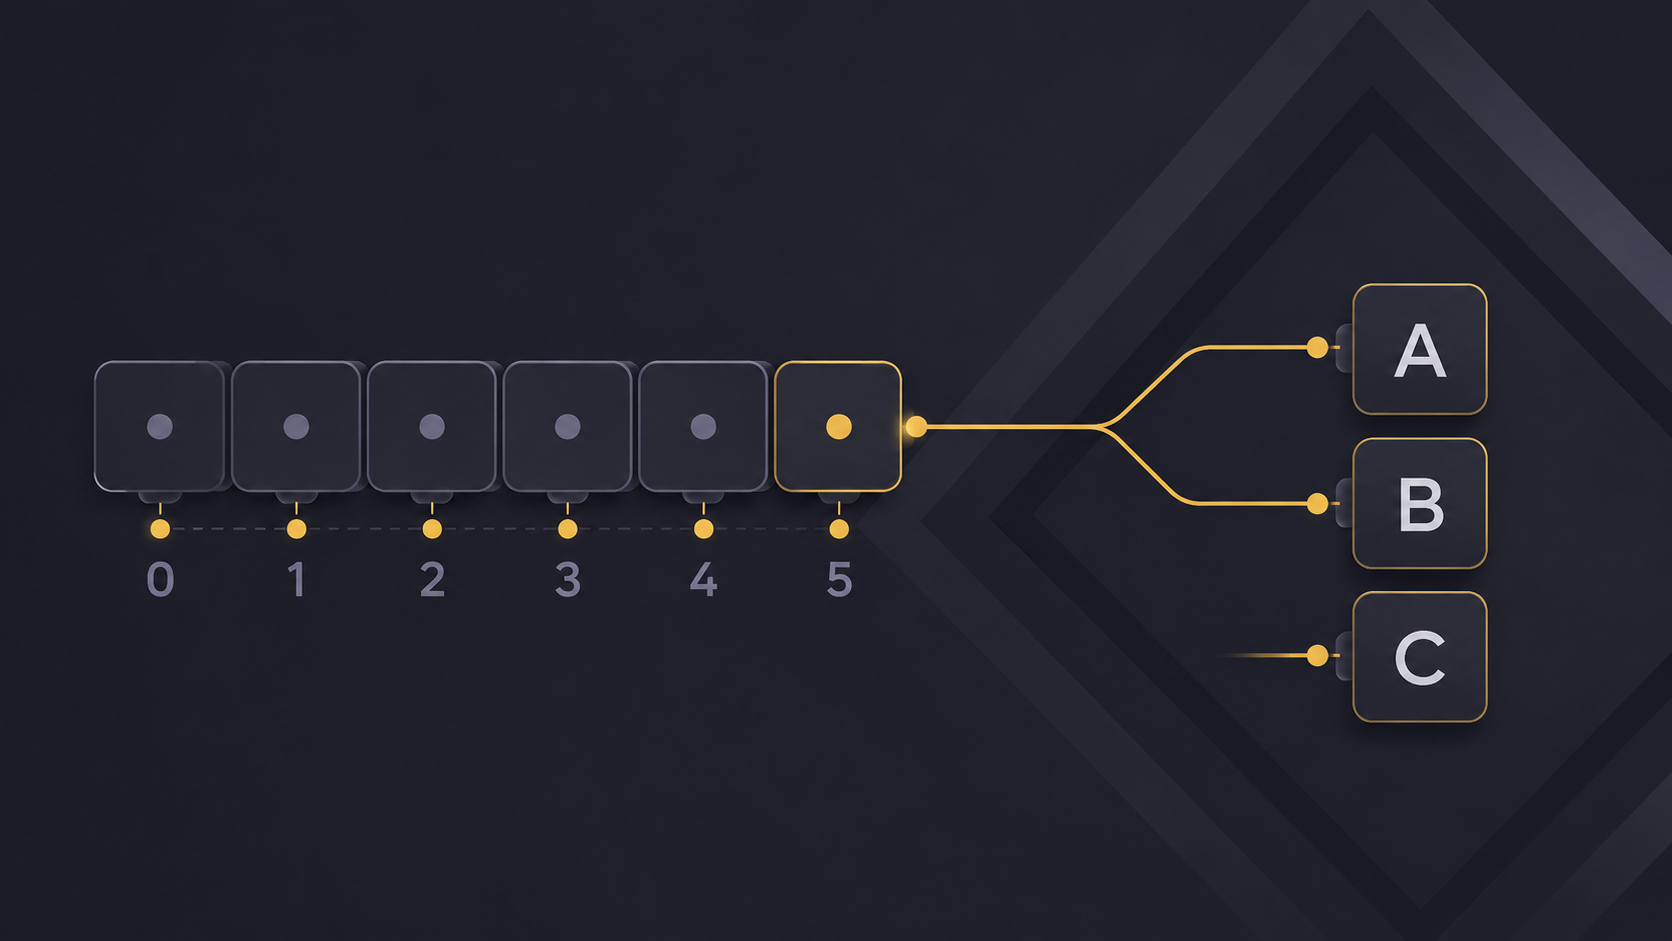
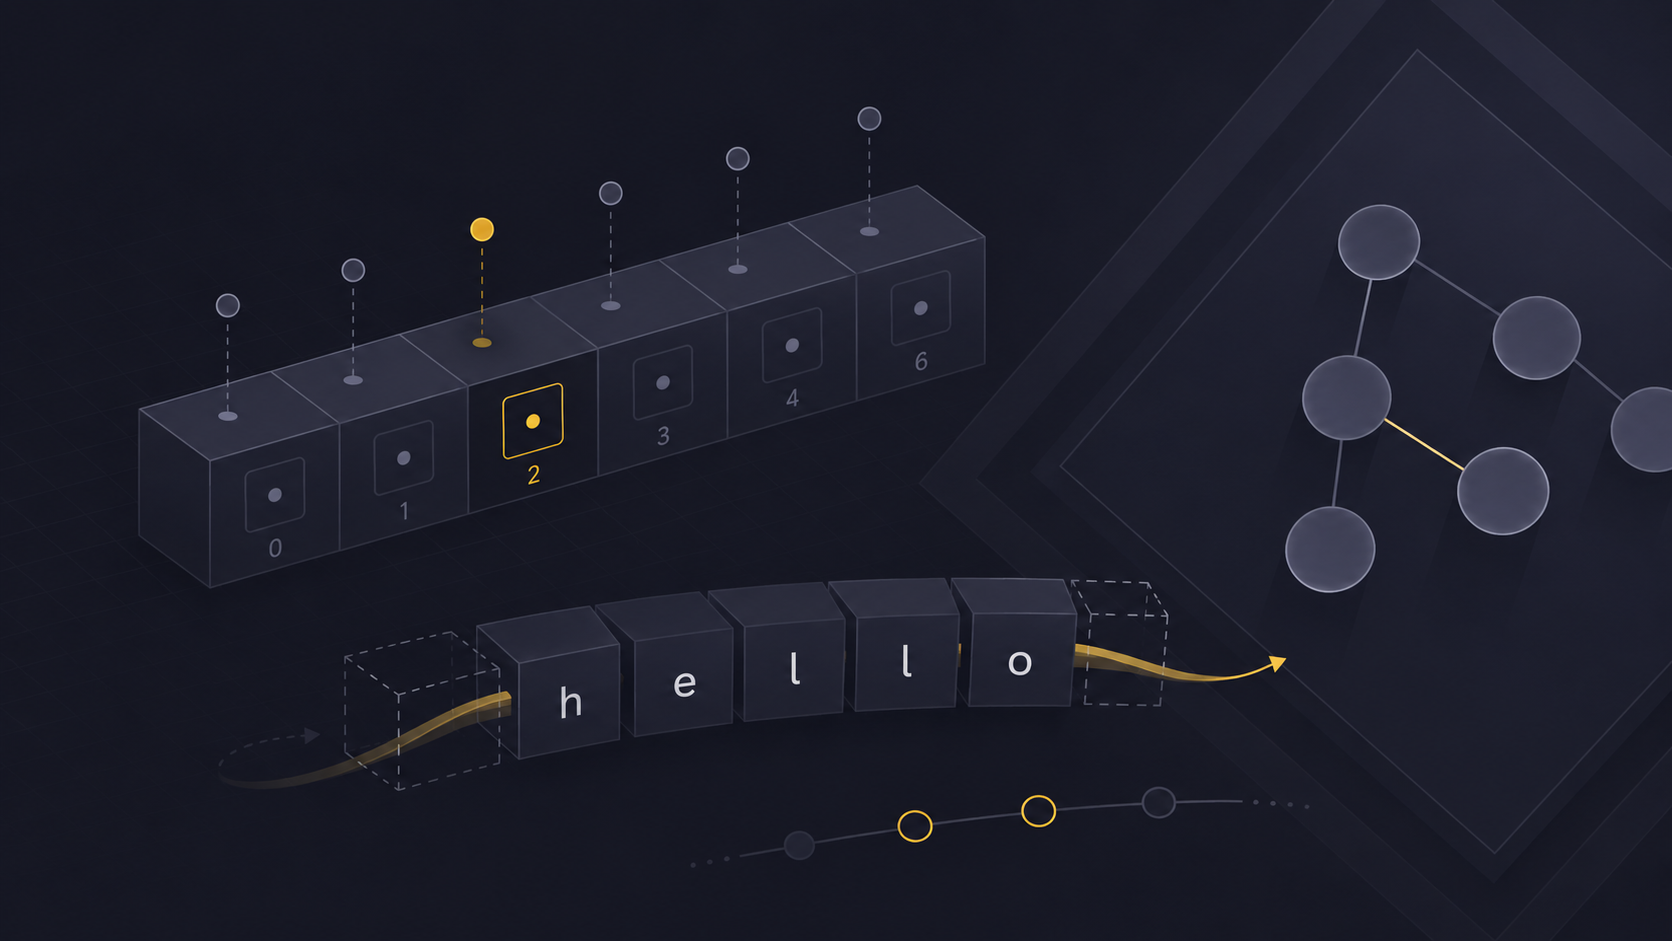
Map module-specific images for 5 modules: arrays-strings, strings-runes, math-recursion, data-structures, sorting-searching

diff --git a/frontend/components/dashboard/ModuleCards.tsx b/frontend/components/dashboard/ModuleCards.tsx
@@ -23,27 +23,27 @@ const MODULE_IMAGE = "/modules/arrays-strings.png";
 
 const MODULE_META: Record<string, ModuleMeta> = {
   "arrays-strings": {
-    image: MODULE_IMAGE,
+    image: "/modules/arrays-strings.png",
     description: "Array operations, slice manipulation, capacity & len",
     barColor: "bg-gradient-to-r from-blue-500 to-cyan-400",
   },
   "strings-runes": {
-    image: MODULE_IMAGE,
+    image: "/modules/strings-runes.png",
     description: "String manipulation, Unicode, runes, concatenation",
     barColor: "bg-gradient-to-r from-emerald-500 to-green-400",
   },
   "math-recursion": {
-    image: MODULE_IMAGE,
+    image: "/modules/math-recursion.png",
     description: "Mathematical operations, recursive algorithms, number theory",
     barColor: "bg-gradient-to-r from-purple-500 to-violet-400",
   },
   "data-structures": {
-    image: MODULE_IMAGE,
+    image: "/modules/data-structures.png",
     description: "Data structures: stacks, queues, linked lists, trees, heaps, graphs",
     barColor: "bg-gradient-to-r from-amber-500 to-yellow-400",
   },
   "sorting-searching": {
-    image: MODULE_IMAGE,
+    image: "/modules/sorting-searching.png",
     description: "Sorting algorithms, binary search, two-pointer techniques",
     barColor: "bg-gradient-to-r from-rose-500 to-pink-400",
   },